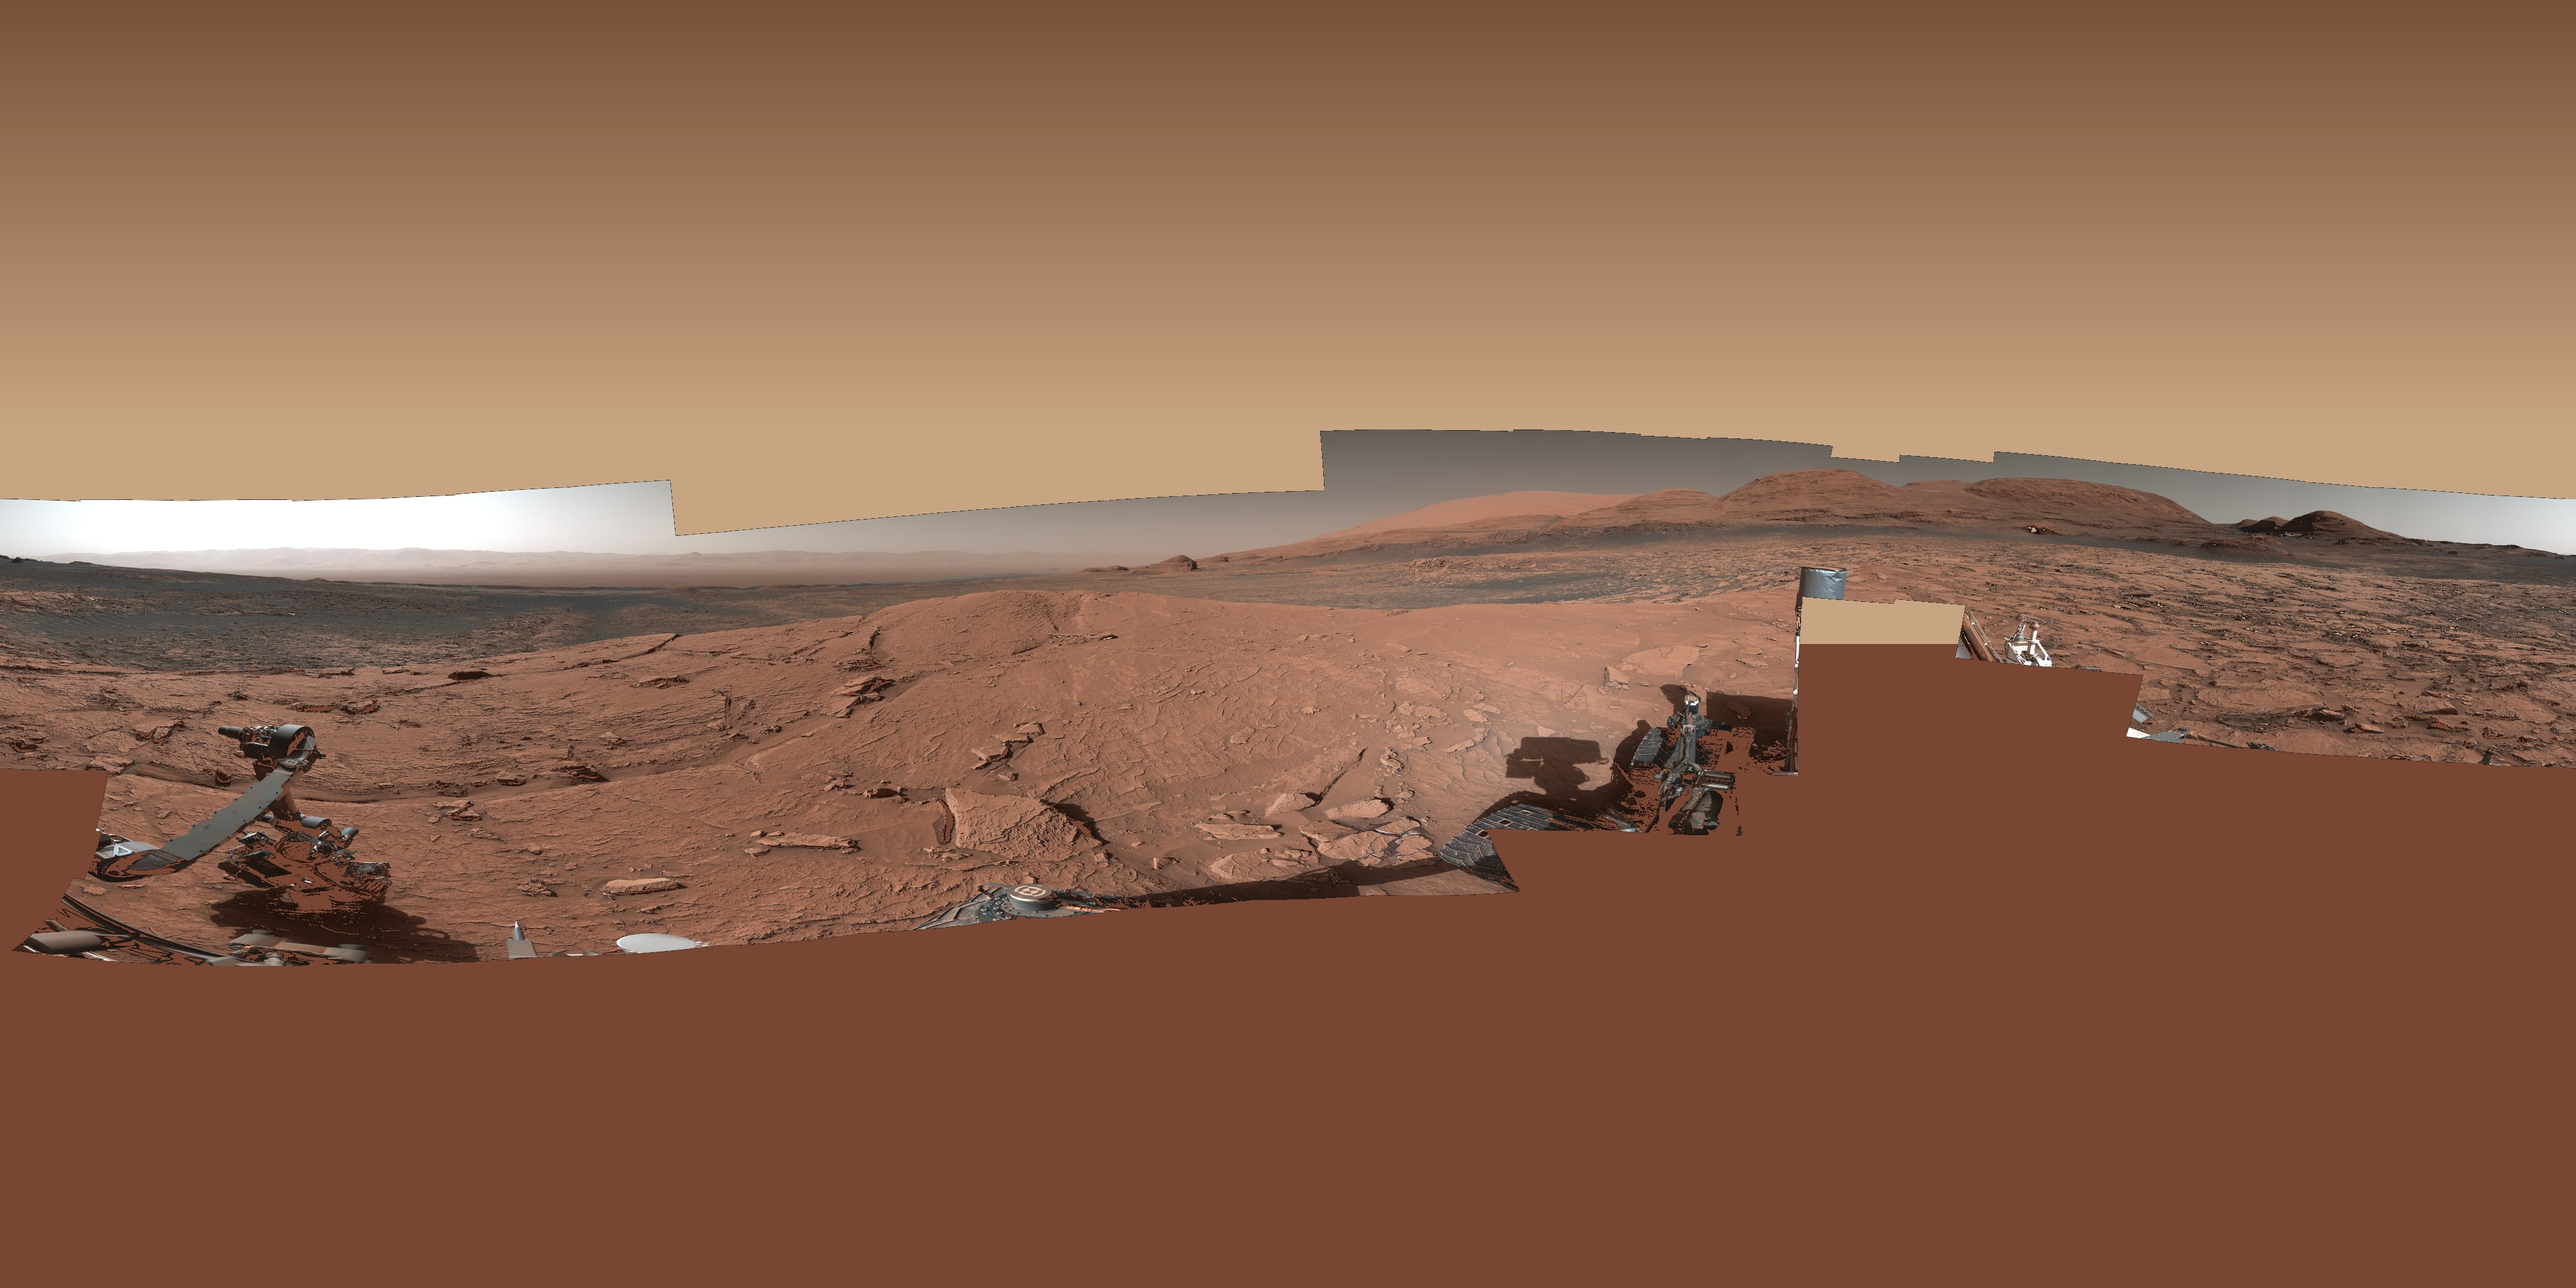
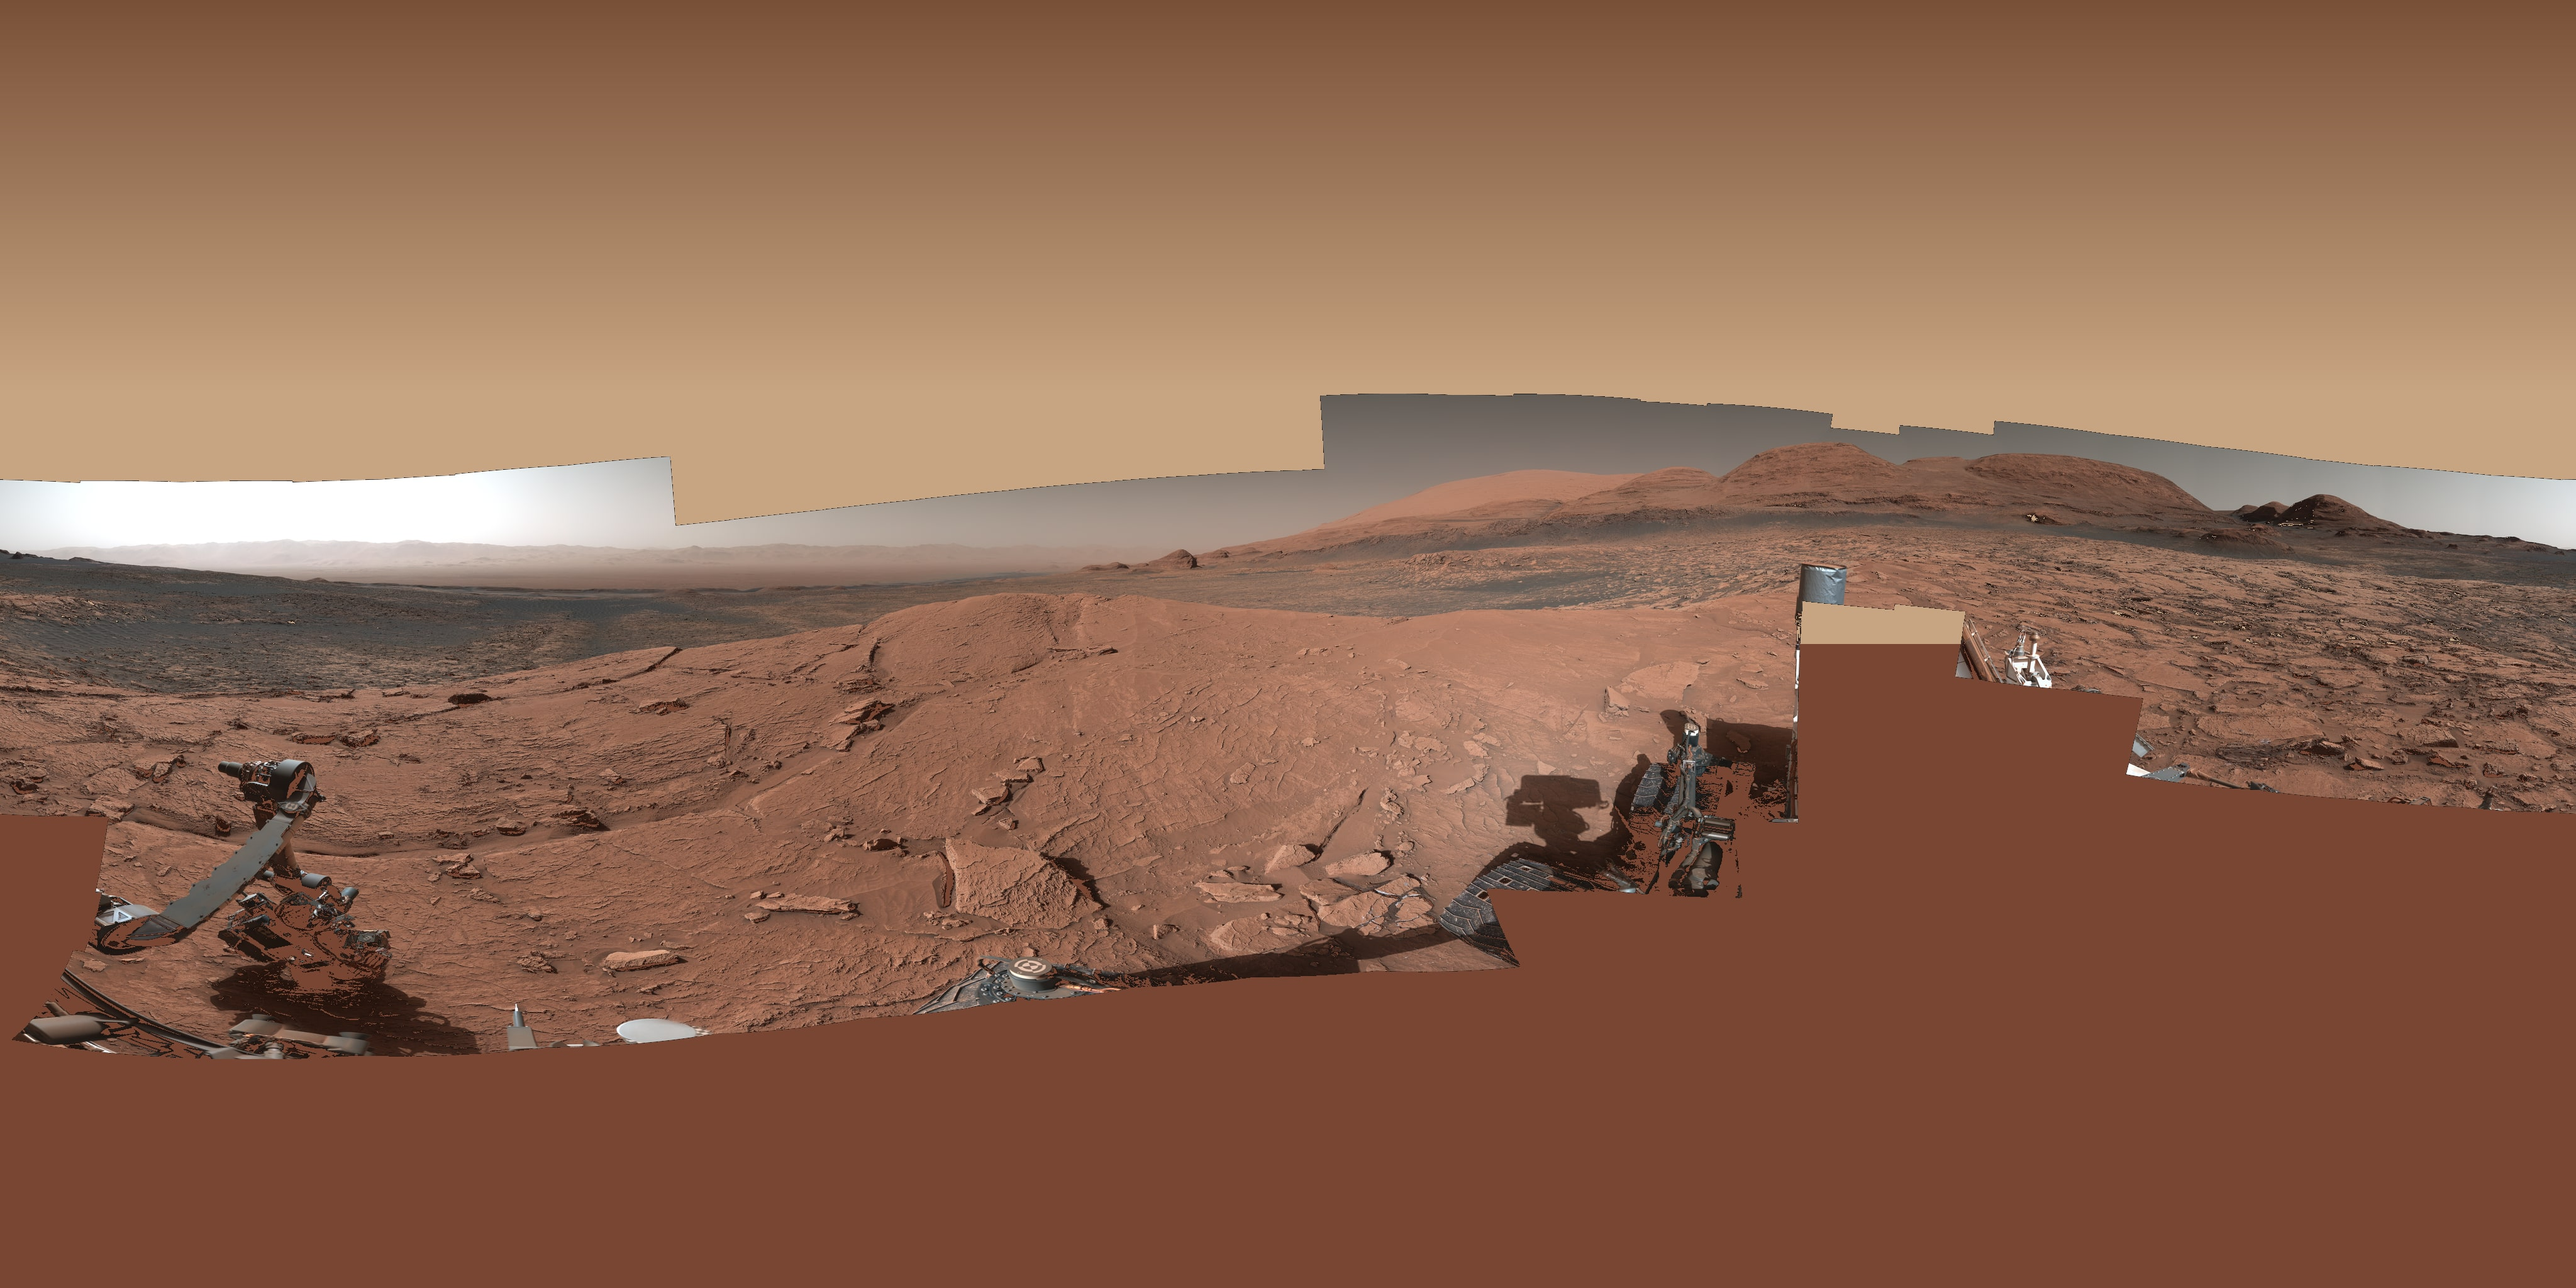
fix(panoramas): aspect-match elevation FOVs — curiosity/perseverance/apollo14
Audit per user feedback: "rovers + bottom of screen show black patches
where parts of rover should be." Root cause was elevation parameters
mismatched against actual source aspect ratios — sources were being
vertically compressed and dark deck areas weren't recolouring.

- curiosity (29163×7891, 3.69:1 @ 360°): 75°→93° vFOV. Mastcam
  foreground (wheels, arm, workspace) renders at correct angular size.
- perseverance (36952×11570, 3.19:1 @ 360°): 80°→112° vFOV +
  recolourBlackThreshold 60→85. Rover deck shadows no longer read
  as black holes; Mastcam-Z deck shows as a continuous element.
- apollo14 (12893×3185, 4.05:1 @ 180°): 28°→44° vFOV. LM ascent
  stage + ALSEP equipment band ~1.6x taller — visible instead of
  squished into a thin strip.

Each config now carries a one-line aspect-math note so future tuners
can verify quickly. Other 15 panoramas verified visually — no
mismatched aspects, no further fixes needed.

Changed region(s): [[0.0, 0.2812, 1.0, 0.8438]]

diff --git a/scripts/hotspots/fetch-mars-panoramas.ts b/scripts/hotspots/fetch-mars-panoramas.ts
@@ -94,9 +94,14 @@ const PANORAMAS: MarsPanoramaConfig[] = [
     sourceLabel: 'PIA24626',
     attribution: 'NASA / JPL-Caltech / MSSS',
     license: 'PD-NASA',
+    // 29163×7891 ≈ 3.69:1 — at 360° hAz the source covers ~98°
+    // vFOV. Earlier 30+45=75° squished the rover deck + foreground
+    // vertically; 35+58=93° matches the aspect ratio so the Mastcam
+    // foreground (rover wheels, drill arm, immediate workspace)
+    // renders at correct angular size instead of being crammed.
     srcAzimuthDeg: 360,
-    srcElevationTopDeg: 30,
-    srcElevationBottomDeg: 45,
+    srcElevationTopDeg: 35,
+    srcElevationBottomDeg: 58,
     caption: 'Curiosity at Mont Mercou, sol 3070 — Mastcam 360° panorama',
   },
   {
@@ -106,9 +111,17 @@ const PANORAMAS: MarsPanoramaConfig[] = [
     sourceLabel: 'PIA2464',
     attribution: 'NASA / JPL-Caltech / ASU / MSSS',
     license: 'PD-NASA',
+    // 36952×11570 ≈ 3.19:1 — at 360° hAz the source covers ~113°
+    // vFOV. Earlier 35+45=80° vertically compressed the Mastcam-Z
+    // panorama by 1.4x and left dark shadow patches inside the
+    // rover deck region reading as visible "black holes." 50+62=112°
+    // matches the aspect ratio. Bumped recolourBlackThreshold to 85
+    // so the deck-shadow patches recolour into Mars regolith tone
+    // instead of staying near-black.
     srcAzimuthDeg: 360,
-    srcElevationTopDeg: 35,
-    srcElevationBottomDeg: 45,
+    srcElevationTopDeg: 50,
+    srcElevationBottomDeg: 62,
+    recolourBlackThreshold: 85,
     caption: 'Perseverance Mastcam-Z first 360° panorama, Jezero Crater, sol 3 (Feb 21, 2021)',
   },
   {

diff --git a/scripts/hotspots/fetch-moon-panoramas.ts b/scripts/hotspots/fetch-moon-panoramas.ts
@@ -82,10 +82,14 @@ const PANORAMAS: MoonPanoramaConfig[] = [
     sourceLabel: "Apollo 14 LM 12 O'clock Pan Hi-Res",
     attribution: 'NASA / Alan Shepard / Edgar Mitchell · via Apollo Lunar Surface Journal',
     license: 'PD-NASA',
-    // LM 12 O'clock pan ≈ 180° in front of the LM. Multi-frame stitched composite.
+    // 12893×3185 ≈ 4.05:1 — at 180° hAz the implied vFOV is 44°
+    // (180/4.05). Earlier 14+14=28° configuration squished the
+    // source vertically by 1.57x and shrank the LM ascent stage
+    // + ALSEP equipment into a thin band. 22+22=44 matches the
+    // source aspect ratio so 1px ≈ 1px angular size on output.
     srcAzimuthDeg: 180,
-    srcElevationTopDeg: 14,
-    srcElevationBottomDeg: 14,
+    srcElevationTopDeg: 22,
+    srcElevationBottomDeg: 22,
     caption:
       "Fra Mauro panorama looking forward of Antares LM (12 o'clock position). " +
       'Cone Crater rim visible in distance; ALSEP package + MET (Modular Equipment Transporter) tracks. ' +
